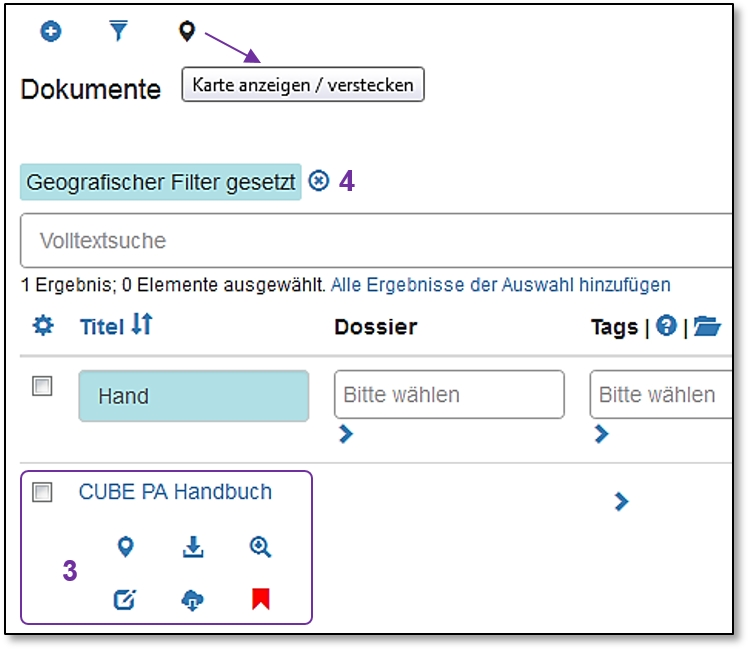
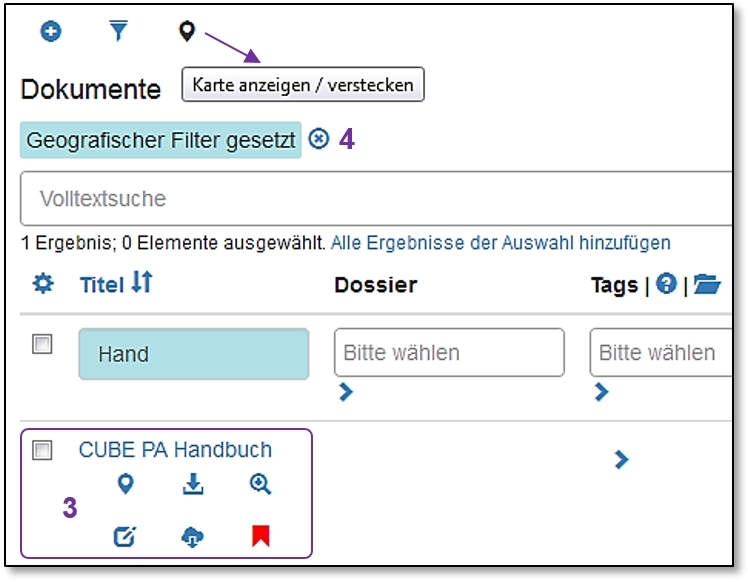
[german]
Anpassungen an Layout

diff --git a/german/chapters/11_Dokumentenablage/11_Dokumentenablage.tex b/german/chapters/11_Dokumentenablage/11_Dokumentenablage.tex
@@ -286,7 +286,7 @@ Mit Klick auf 'Dokument hinzufügen' wird das Formular fürs Erfassen eines neue
 % \label{fig:speciation}
 \end{figure}
 
-Mit Klick auf \includegraphics[height=12pt]{/Icons/B_Uebernehmen.jpg} werden die Daten gespeichert und das Dokument erstellt.
+Mit Klick auf \includegraphics[height=14pt]{/Icons/B_Uebernehmen.jpg} werden die Daten gespeichert und das Dokument erstellt.
 
 \vspace{\baselineskip}
 
@@ -601,10 +601,12 @@ Wenn Sie sich Google-Maps anzeigen lassen, ist die Handhabung wie bei Google-Map
 Wenn Sie sich in der Dokumenten-Übersicht Google-Maps anzeigen lassen (klicken auf 'Karte anzeigen / verstecken'), werden alle mit Google-Maps verknüpften Dokumente auf der Karte angezeigt. Sie können nun nach einem Ort suchen \col{(1)}, indem Sie oberhalb der Karte eine Adresse oder einen Ort eingeben und anschliessend die 'Enter'-Taste drücken. Durch das übliche Navigieren in Google-Maps gelangen Sie zum gewünschten Kartenausschnitt und sehen sämtliche Dokumente, die darin verknüpft sind. Wenn Sie vorangehend in der Dokumenten-Übersicht eine bestimmte Suchanfrage vorgenommen haben (Filterung), werden in der Karte nur diese Dokumente angezeigt. \newline
 
 \pagebreak
-\textbf{Dokumente nach geografischen Bereichen filtern:} \\
+\textbf{Dokumente nach geografischen Bereichen filtern:}
+
+\vspace{.3cm} 
 
 \begin{wrapfigure}[9]{r}{7cm}
-  \vspace{-35pt}
+  \vspace{-20pt}
   \begin{center}
     \includegraphics[height=55mm]{../chapters/11_Dokumentenablage/pictures/11-2-3_GeoBereichFilter.jpg}
   \end{center}
@@ -614,12 +616,12 @@ Wenn Sie sich in der Dokumenten-Übersicht Google-Maps anzeigen lassen (klicken 
 \end{wrapfigure}
 Sie haben die Möglichkeit Dokumente, welche sich auf einen gleichen geographischen Bereich beziehen, resp. mit gleichen / nahen Koordinaten hinterlegt wurden, zu filtern. Sie gehen wie folgt vor: Klicken Sie auf 'Karte anzeigen / verstecken' \col{(1)}, damit die Google-Map angezeigt wird. Nun erscheint oberhalb der Google-Map die Funktion 'Dokumente im aktuellen geografischen Bereich auflisten' \col{(2)}. Klicken Sie diesen Text an. Es wird ein geografischer Filter gesetzt:
 
-\vspace{1cm} 
+\vspace{.2cm} 
 
-\begin{wrapfigure}[12]{r}{8cm}
+\begin{wrapfigure}[10]{r}{7cm}
   \vspace{-25pt} 
   \begin{center}
-    \includegraphics[height=70mm]{../chapters/11_Dokumentenablage/pictures/11-2-3_GeoBereichResult.jpg}
+    \includegraphics[height=55mm]{../chapters/11_Dokumentenablage/pictures/11-2-3_GeoBereichResult.jpg}
   \end{center}
   \vspace{-20pt}
   % \caption{Dokumenten in einem gemeinsamen geografischen Bereich}
@@ -627,24 +629,33 @@ Sie haben die Möglichkeit Dokumente, welche sich auf einen gleichen geographisc
 \end{wrapfigure}
 Oberhalb der Suchfelder / Filterfelder erscheint 'Geografischer Filter gesetzt'. Nun werden nur noch diejenigen Dokumente angezeigt, welche mit ähnlichen geografischen Koordinaten verknüpft wurden. In unserem Beispiel sehen Sie nun zwei Dokumente, welche mittels 'Nadel' \includegraphics[height=12pt]{/Icons/Nadel.jpg} auch auf vorhergehendem Printscreen angezeigt wurden \col{(3)}. Es handelt sich dabei um die beiden Dokumente des Suchergebnisses. Wollen Sie den geografischen Filter wieder löschen, klicken Sie dazu auf das kleine Kreuzchen rechts der Meldung 'Geografischer Filter gesetzt' \col{(4)}. Durch erneutes Drücken auf die Lupe \includegraphics[height=12pt]{/Icons/Lupe.jpg} erhalten Sie wieder die ungefilterte Liste.
 
+\vspace{-8pt}
 \subsubsection{Arbeiten mit den hochgeladenen Dokumenten}
 \label{bkm:Ref442801819}
 
 \begin{figure}[H]
+  \vspace{-10pt}
 \center{\includegraphics[width=1\linewidth]{../chapters/11_Dokumentenablage/pictures/11-2-4_FunktionenHochgDateien.jpg}}
+  \vspace{-15pt}
 \caption{Optionen für hochgeladene Dokumenten}
 % \label{fig:speciation}
 \end{figure}
 
+\vspace{-7pt}
 In der Dokumenten-Übersicht können Sie nach Dokumenten suchen (siehe Kapitel \ref{bkm:Ref443047823}). Um die verschiedenen Dokumenten-Optionen zu sehen, resp. einzublenden, klicken Sie auf den gewünschten Dokumenten-Titel (blaue Schrift) \col{(1)}. Die Optionen werden eingeblendet. Ein erneuter Klick blendet die Optionen auf dieser Zeile wieder aus. \newline
 
+\begin{wrapfigure}[7]{r}{7cm}
+  \vspace{-0pt} 
+  \begin{center}
+    \includegraphics[width=1\linewidth]{../chapters/11_Dokumentenablage/pictures/11-2-4_DokAufGoogleMaps.jpg}
+  \end{center}
+  \vspace{-20pt}
+  % \caption{Dokumenten in einem gemeinsamen geografischen Bereich}
+  \vspace{-10pt}
+\end{wrapfigure}
 Sofern das Dokument mit Google-Maps verknüpft ist, gelangen Sie durch Klicken auf das Nadelsymbol \includegraphics[height=12pt]{/Icons/Nadelsymbol.jpg} \col{(2)} direkt zur Karte und auf die verknüpfte Position des Dokuments. Das Symbol wird nur angezeigt, wenn eine Verknüpfung mit Google-Maps vorhanden ist (siehe Kapitel \ref{bkm:Ref442545553}). Folgendes Fenster wird geöffnet:
 
-\begin{figure}[H]
-\center{\includegraphics[width=0.5\linewidth]{../chapters/11_Dokumentenablage/pictures/11-2-4_DokAufGoogleMaps.jpg}}
-% \caption{Das Menü in CUBE PA}
-% \label{fig:speciation}
-\end{figure}
+\vspace{\baselineskip}
 
 Mit dem Kreuzchen rechts oben im Dialogfenster können Sie diese Anzeige schliessen. Sie haben die Möglichkeit von hier aus die Dokumentenvorschau zu öffnen, das Dokument herunterzuladen oder den Dokumenteneintrag anzeigen zu lassen. \newline
 

diff --git a/german/chapters/05_Sitzungswesen/05_Sitzungswesen.tex b/german/chapters/05_Sitzungswesen/05_Sitzungswesen.tex
@@ -385,8 +385,8 @@ Durch Klicken auf die horizontalen Pfeile \includegraphics[height=12pt]{/Icons/P
 
 Um den Protokolltext zu einem Traktandum zu erfassen, klicken Sie auf das Aufklappsymbol \includegraphics[height=12pt]{/Icons/Aufklappen.jpg} \col{(5)} (ein kleines Dreieck in einem Quadrat) neben dem Feld mit der Bezeichnung des Traktandums. Nun erscheint das Feld, in dem Sie mit freiem Text das zu diesem Traktandum gesagte protokollieren können \col{(6)}.
 
+\pagebreak
 \subsubsection{Ein Entscheid oder eine Pendenz hinzufügen:}
-
 Die vier Symbole unter dem Textfeld eröffnen weitere Möglichkeiten:
 
 \begin{figure}[H]
@@ -395,6 +395,7 @@ Die vier Symbole unter dem Textfeld eröffnen weitere Möglichkeiten:
 % \label{fig:speciation}
 \end{figure}
 
+\vspace{-5pt}  
 Sie möchten einen \textbf{Entscheid erfassen}, der automatisch in die Entscheidliste übernommen werden soll? Klicken Sie auf das Symbol ganz links \includegraphics[height=12pt]{/Icons/Gutzeichen_Rahmen.jpg} \col{(a)}, und es erscheint ein Fenster, in dem Sie den Entscheid erfassen können. Die Felder 'Titel' \col{(1)} und 'Beschreibung' \col{(2)} füllen Sie mit freiem Text, im Feld 'Projekt/Teilprojekt' \col{(3)} wählen das entsprechende Projekt aus einer Liste aus. Die Traktandennummer wird übernommen, Sie können diese jedoch bei Bedarf anpassen \col{(4)}. Klicken Sie auf die Schaltfläche 'Erstellen' \col{(5)}, um den Entscheid zu speichern, oder auf das Kreuz \col{(6)}, um die Eingaben zu verwerfen.
 
 \begin{figure}[H]
@@ -404,6 +405,7 @@ Sie möchten einen \textbf{Entscheid erfassen}, der automatisch in die Entscheid
 \end{figure}
 
 \begin{figure}[H]
+\vspace{-10pt}  
 \center{\includegraphics[width=1\linewidth]{../chapters/05_Sitzungswesen/pictures/5-2-1_EntscheidSymbole.jpg}}
 \caption{Weitere Optionen für die Entscheide}
 % \label{fig:speciation}

diff --git a/german/chapters/06_Geschaefte/06_Geschaefte.tex b/german/chapters/06_Geschaefte/06_Geschaefte.tex
@@ -103,7 +103,7 @@ Entweder fahren Sie gleich auf demselben Bildschirm weiter wie beim Erfassen von
 Sie können nun optisch innerhalb der gesamten Liste der Geschäfte suchen oder die Liste filtern. Zum Blättern in der Liste scrollen Sie einfach nach unten, zuunterst sehen Sie Schaltflächen zum Blättern auf eine nächste Seite, oder zum Weiter- oder Zurückblättern.
 
 \begin{center}
-\includegraphics[height=12pt]{/Icons/SeitenBlaettern.jpg}
+\includegraphics[height=16pt]{/Icons/SeitenBlaettern.jpg}
 \end{center}
 
 Zum Filtern der Liste stehen Ihnen die Suchfelder in der ersten Zeile zur Verfügung, sowie ein separates Feld für die Volltextsuche \col{(1)}. Im Feld 'Titel' \col{(2)} können Sie freien Text eingeben; im Feld 'Projekt/Teilprojekt' \col{(3)}, sowie im Feld 'Status' \col{(4)} steht jeweils eine Auswahlliste zur Verfügung. Haben Sie die Filterwerte ausgewählt, klicken Sie auf das Lupensymbol \includegraphics[height=12pt]{/Icons/Lupe_kl.jpg} \col{(5)} links (oder drücken die 'Enter'-Taste) und die gefilterte Liste erscheint. Alternativ können Sie mittels der Volltextsuche nach Stichworten in der Liste suchen, welche nach Klick auf die Lupe \includegraphics[height=12pt]{/Icons/Lupe_kl.jpg} \col{(5)} oder der 'Enter'-Taste ausgeführt wird.

diff --git a/german/chapters/08_Beschaffungswesen/08_Beschaffungswesen.tex b/german/chapters/08_Beschaffungswesen/08_Beschaffungswesen.tex
@@ -228,7 +228,7 @@ Es ist keineswegs erforderlich, die Schritte 2 bis 4 unmittelbar hintereinander 
 Sie können nun optisch innerhalb der gesamten Liste suchen oder die Liste filtern. Zum Blättern in der Liste scrollen Sie einfach nach unten, zuunterst sehen Sie Schaltflächen zum Blättern auf die nächste Seite, oder zum Weiter- oder Zurückblättern.
 
 \begin{center}
-\includegraphics[height=12pt]{/Icons/SeitenBlaettern.jpg}
+\includegraphics[height=16pt]{/Icons/SeitenBlaettern.jpg}
 \end{center}
 
 Zum Filtern der Liste stehen ihnen die Suchfelder in der ersten Zeile zur Verfügung. Im Feld 'ID / ext. Ref.' Können Sie eine Zahl eingeben. Die ID ist die vom CUBE PA vergebene Laufnummer. Im Feld 'Titel' können Sie freien Text eingeben. Das Feld 'Projekt/Teilprojekt' verfügt über eine Auswahlliste. Das Feld 'Frist zur Offerteinreichung' verfügt über eine Kalenderauswahl. Haben Sie die Filterwerte ausgewählt, klicken Sie auf das Lupensymbol \includegraphics[height=12pt]{/Icons/Lupe_kl.jpg} \col{(1)} rechts, und die gefilterte Liste erscheint.

diff --git a/german/CUBEPA_Handbuch.tex b/german/CUBEPA_Handbuch.tex
@@ -75,7 +75,7 @@
 \HRule \\[1.5cm]
 
 \textsf{\Large Benutzerhandbuch}\\[0.5cm] % Major heading such as course name
-\textsf{\large Version 2.12 / 05.06.2019}\\[0.5cm] % Minor heading such as course title
+\textsf{\large Version 2.12 / 11.06.2019}\\[0.5cm] % Minor heading such as course title
 
 \pagebreak
 \vspace*{15cm}
@@ -90,13 +90,13 @@
 \begin{tabular}{lp{12cm}}
 Auftragsnummer & BE.N.\\
 Auftraggeber & .\\
-Datum & 05.06.2019\\
+Datum & 11.06.2019\\
 Version & 2.12\\
 Autoren & Dieter Schopfer, Benjamin Nyffenegger, Rayane Zahreddine, Adrian Johner, Markus Schafroth, Simon Heimberg\\
-Freigabe & Markus Schafroth\\
+Freigabe & .\\
 Verteilen & .\\
 Datei & .\\
-Seitenzahl & 273 (inkl. QuickRef / Kurzanleitungen)\\
+Seitenzahl & 272 (inkl. QuickRef / Kurzanleitungen)\\
 Copyright & \copyright{ Emch+Berger AG Bern}\\
 \end{tabular}
 
